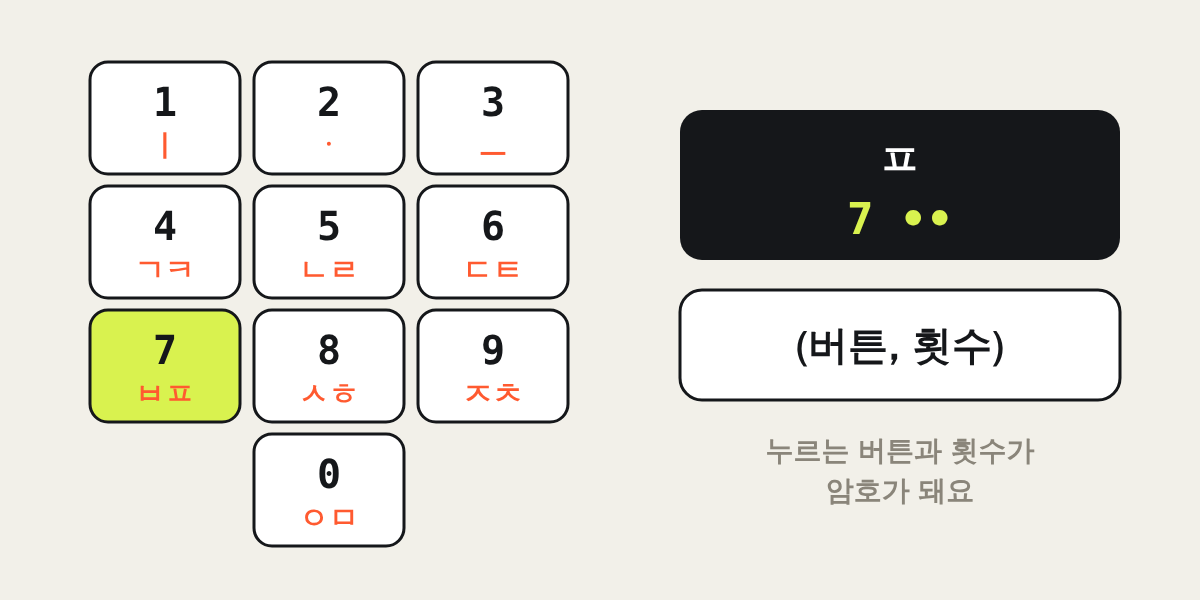
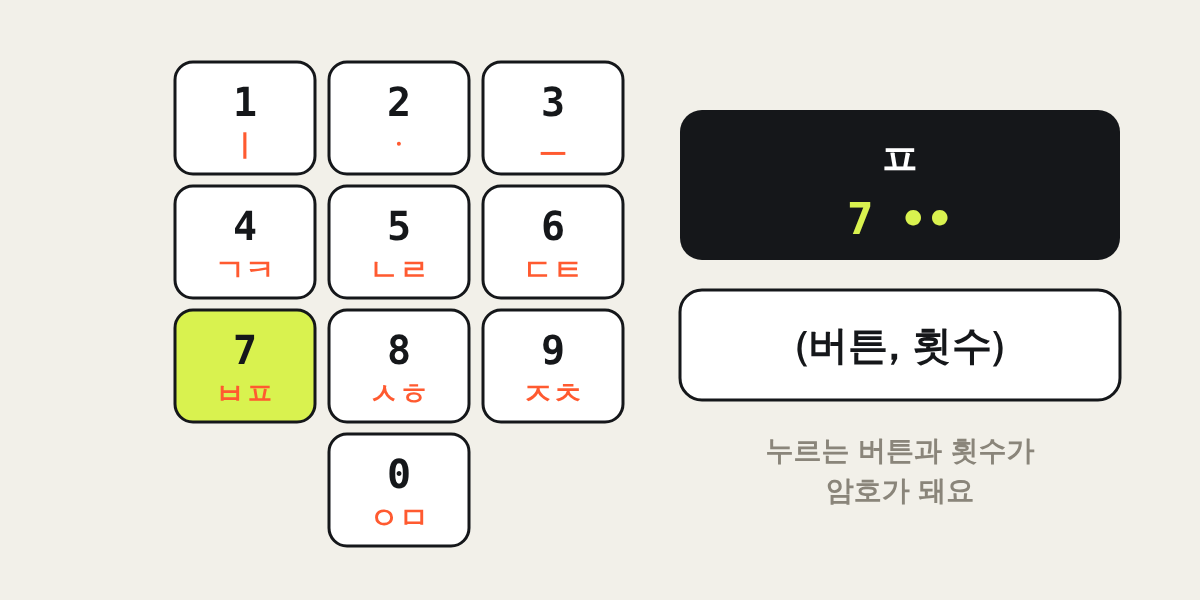
홈 검색창 휴대폰 배치 수정, 학번 검색 안내, 썸네일 겹침 수정
- 휴대폰에서 검색창과 초기화를 한 줄에 나란히 (검색창이 납작하게 눌리던 문제)
- 검색창 아래 학번 검색 예시, 누르면 테두리 표시
- 휴대폰 자판 암호 썸네일이 번호표에 가려지지 않게

Claude-Session: https://claude.ai/code/session_014GLUcgDSrkSY9oD2JF3JUb

Changed region(s): [[0.185, 0.09, 0.5242, 0.93], [0.0617, 0.09, 0.1542, 0.72], [0.185, 0.75, 0.2158, 0.9]]

diff --git a/index.html b/index.html
@@ -10,7 +10,7 @@
   <link rel="preconnect" href="https://fonts.googleapis.com">
   <link rel="preconnect" href="https://fonts.gstatic.com" crossorigin>
   <link href="https://fonts.googleapis.com/css2?family=IBM+Plex+Mono:wght@400;500;600&display=swap" rel="stylesheet">
-  <link rel="stylesheet" href="./style.css?v=5">
+  <link rel="stylesheet" href="./style.css?v=6">
   <!-- 입구의 암호 문제: 아직 풀지 않은 기기에서는 자료 목록을 가립니다 -->
   <script>
     try { if (localStorage.getItem("cn-gate") !== "ok") document.documentElement.classList.add("gate-locked"); }
@@ -108,6 +108,7 @@
           </label>
           <button class="reset-btn" id="resetBtn" type="button">초기화</button>
         </div>
+        <p class="search-hint">학생 작품은 만든 학생의 학번으로 찾을 수 있어요. 예) 10406 · 4반 6번 · 1학년 6반 · 1-4-6</p>
 
         <div class="subject-groups" id="subjectGroups"></div>
         <div class="tools-grid" id="toolsGrid"></div>
@@ -179,7 +180,7 @@
   </div>
 
 <script src="https://cdnjs.cloudflare.com/ajax/libs/qrcodejs/1.0.0/qrcode.min.js"></script>
-<script src="./site-config.js?v=14"></script>
+<script src="./site-config.js?v=15"></script>
 <script src="./script.js?v=5"></script>
   <script src="./gate.js?v=2"></script>
 <script src="./hero-reel.js?v=7"></script>

diff --git a/style.css b/style.css
@@ -495,8 +495,9 @@ footer div{
   .hero-stats{gap:9px}
   .section-inner{width:calc(100% - 32px)}
   .tools-section{padding:56px 0 64px}
-  .finder{flex-direction:column}
-  .reset-btn{width:100%}
+  .finder{flex-wrap:nowrap}
+  .search-box{min-width:0}
+  .reset-btn{width:auto;flex:none}
   .subject-row{grid-template-columns:1fr;gap:8px}
   .subject-row>.row-label{padding-top:0}
   .how-layout{width:calc(100% - 32px)}
@@ -533,3 +534,7 @@ html.gate-locked .gate{
 .gate-msg.ok{color:#32724f}.gate-msg.no{color:#b44634}
 .gate-other{font:inherit;font-size:13px;font-weight:700;color:var(--muted);background:none;border:0;text-decoration:underline;cursor:pointer;padding:10px}
 .gate-note{margin:4px 0 0;font-size:12px;color:var(--muted)}
+
+/* 검색창: 누르면 테두리로 표시, 아래에 학번 검색 안내 */
+.search-box:focus-within{border-color:#15171a;box-shadow:0 0 0 3px rgba(217,242,79,.55)}
+.search-hint{margin:8px 2px 0;font-size:12.5px;line-height:1.6;color:var(--muted)}

diff --git a/site-config.js b/site-config.js
@@ -19,7 +19,7 @@ const SITE = {
   heroLine2: "읽다",
 
   heroDesc: "주제선택 「암호와 수」 수업에서 쓰는 차시별 활동지와 슬라이드를 모아 둔 곳입니다. 설치 없이 태블릿에서 바로 열립니다.",
-  searchPlaceholder: "주제나 학번으로 검색 (예: 시저, 10406, 4반 6번)"
+  searchPlaceholder: "주제나 학번으로 검색"
 };
 
 // ---------------------------------------------------------
